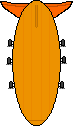
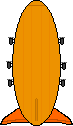
wip

diff --git a/scripts/main.js b/scripts/main.js
@@ -125,10 +125,10 @@ function gameLoop(timeStamp)
 
     blimps.forEach((blimp) =>
     {
-        blimp.drawRotated(135);
+        blimp.drawRotated(-45);
             ctx.beginPath();
-            ctx.moveTo(0, 0);
-            ctx.lineTo(myGameArea.canvas.width - 100, myGameArea.canvas.height -100);
+            ctx.moveTo(blimp.pX + blimp.width / 2, blimp.pY + blimp.height / 2);
+            ctx.lineTo(blimp.pX + blimp.width / 2 , blimp.pY + 1000);
             ctx.stroke();
     });
 
@@ -259,8 +259,8 @@ function startGame()
         {
             let w = 73;
             let h = 126;
-            let y = 500;
-            let x = 500;
+            let y = 0;
+            let x = 200;
             //problem here
             blimps.push(new Entity(images.blimp, w, h, x, y, "blimp", false, 45));
             
@@ -517,7 +517,7 @@ class Entity
     drawRotated(degrees)
     {
         ctx.save();
-        ctx.translate(this.pX + this.width / 2, this.pY + this.width / 2);
+        ctx.translate(this.pX + this.width / 2, this.pY + this.height / 2);
         ctx.rotate(degrees * Math.PI / 180);
         ctx.drawImage(this.image, 0, 0, this.width, this.height, this.pX, this.pY, this.width, this.height);
         ctx.restore();
@@ -529,8 +529,9 @@ class Entity
 
         
         if(this.type == "blimp"){
-            this.pY += speed * Math.sin(0.785);
-            this.pX += speed * Math.sin(0.785);
+            this.pY += speed;
+            // this.pY += speed * Math.sin(0.785);
+            // this.pX += speed * Math.sin(0.785);
             ctx.beginPath();
             ctx.moveTo(0, 0);
             ctx.lineTo(myGameArea.canvas.width - 100, myGameArea.canvas.height -100);
